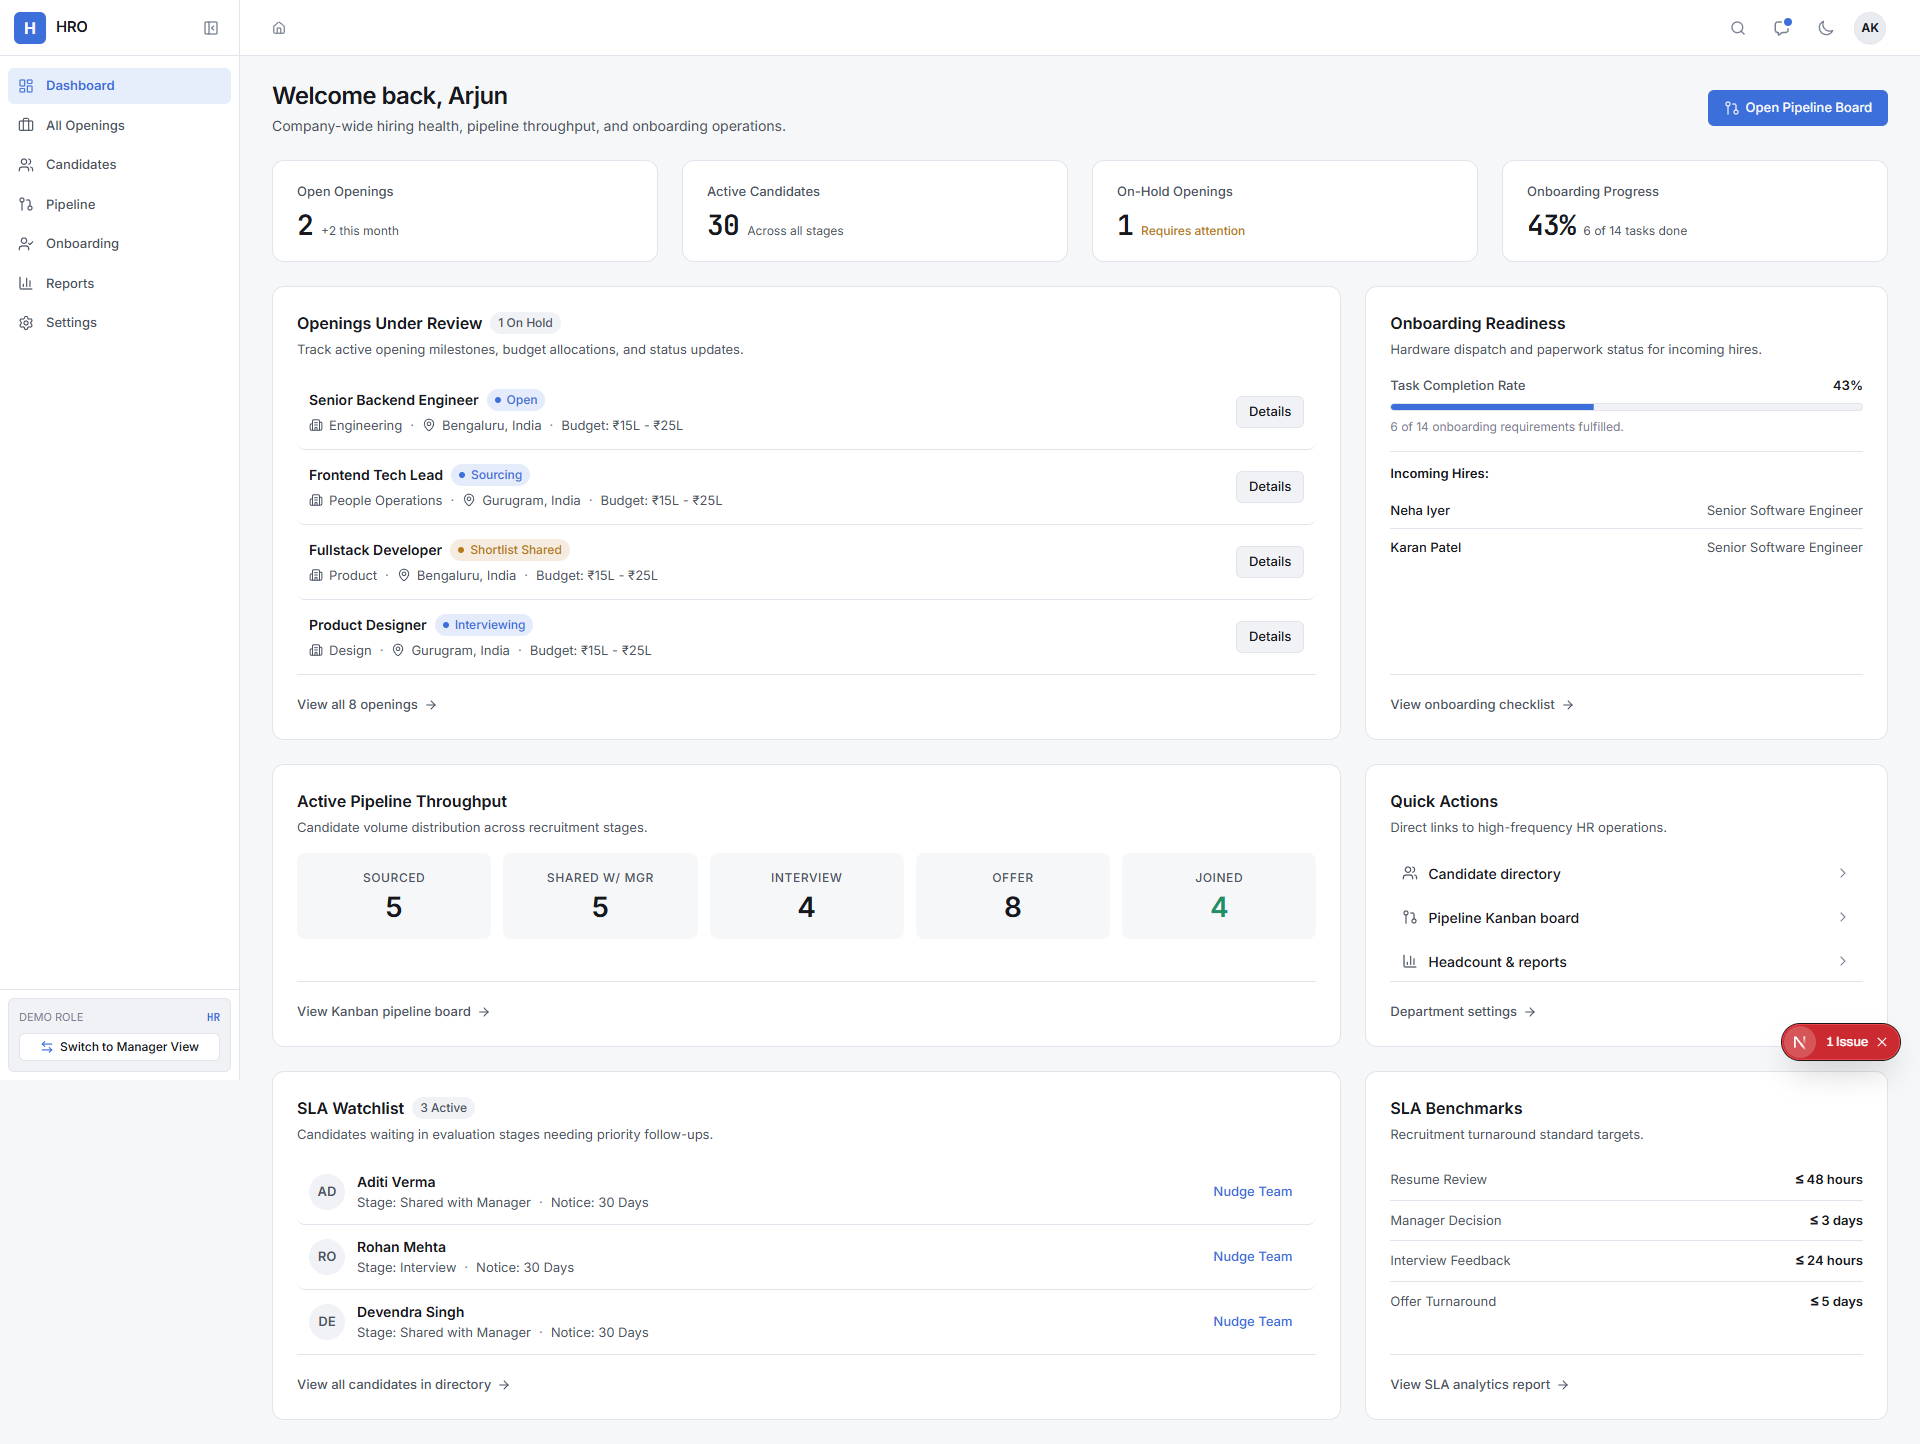
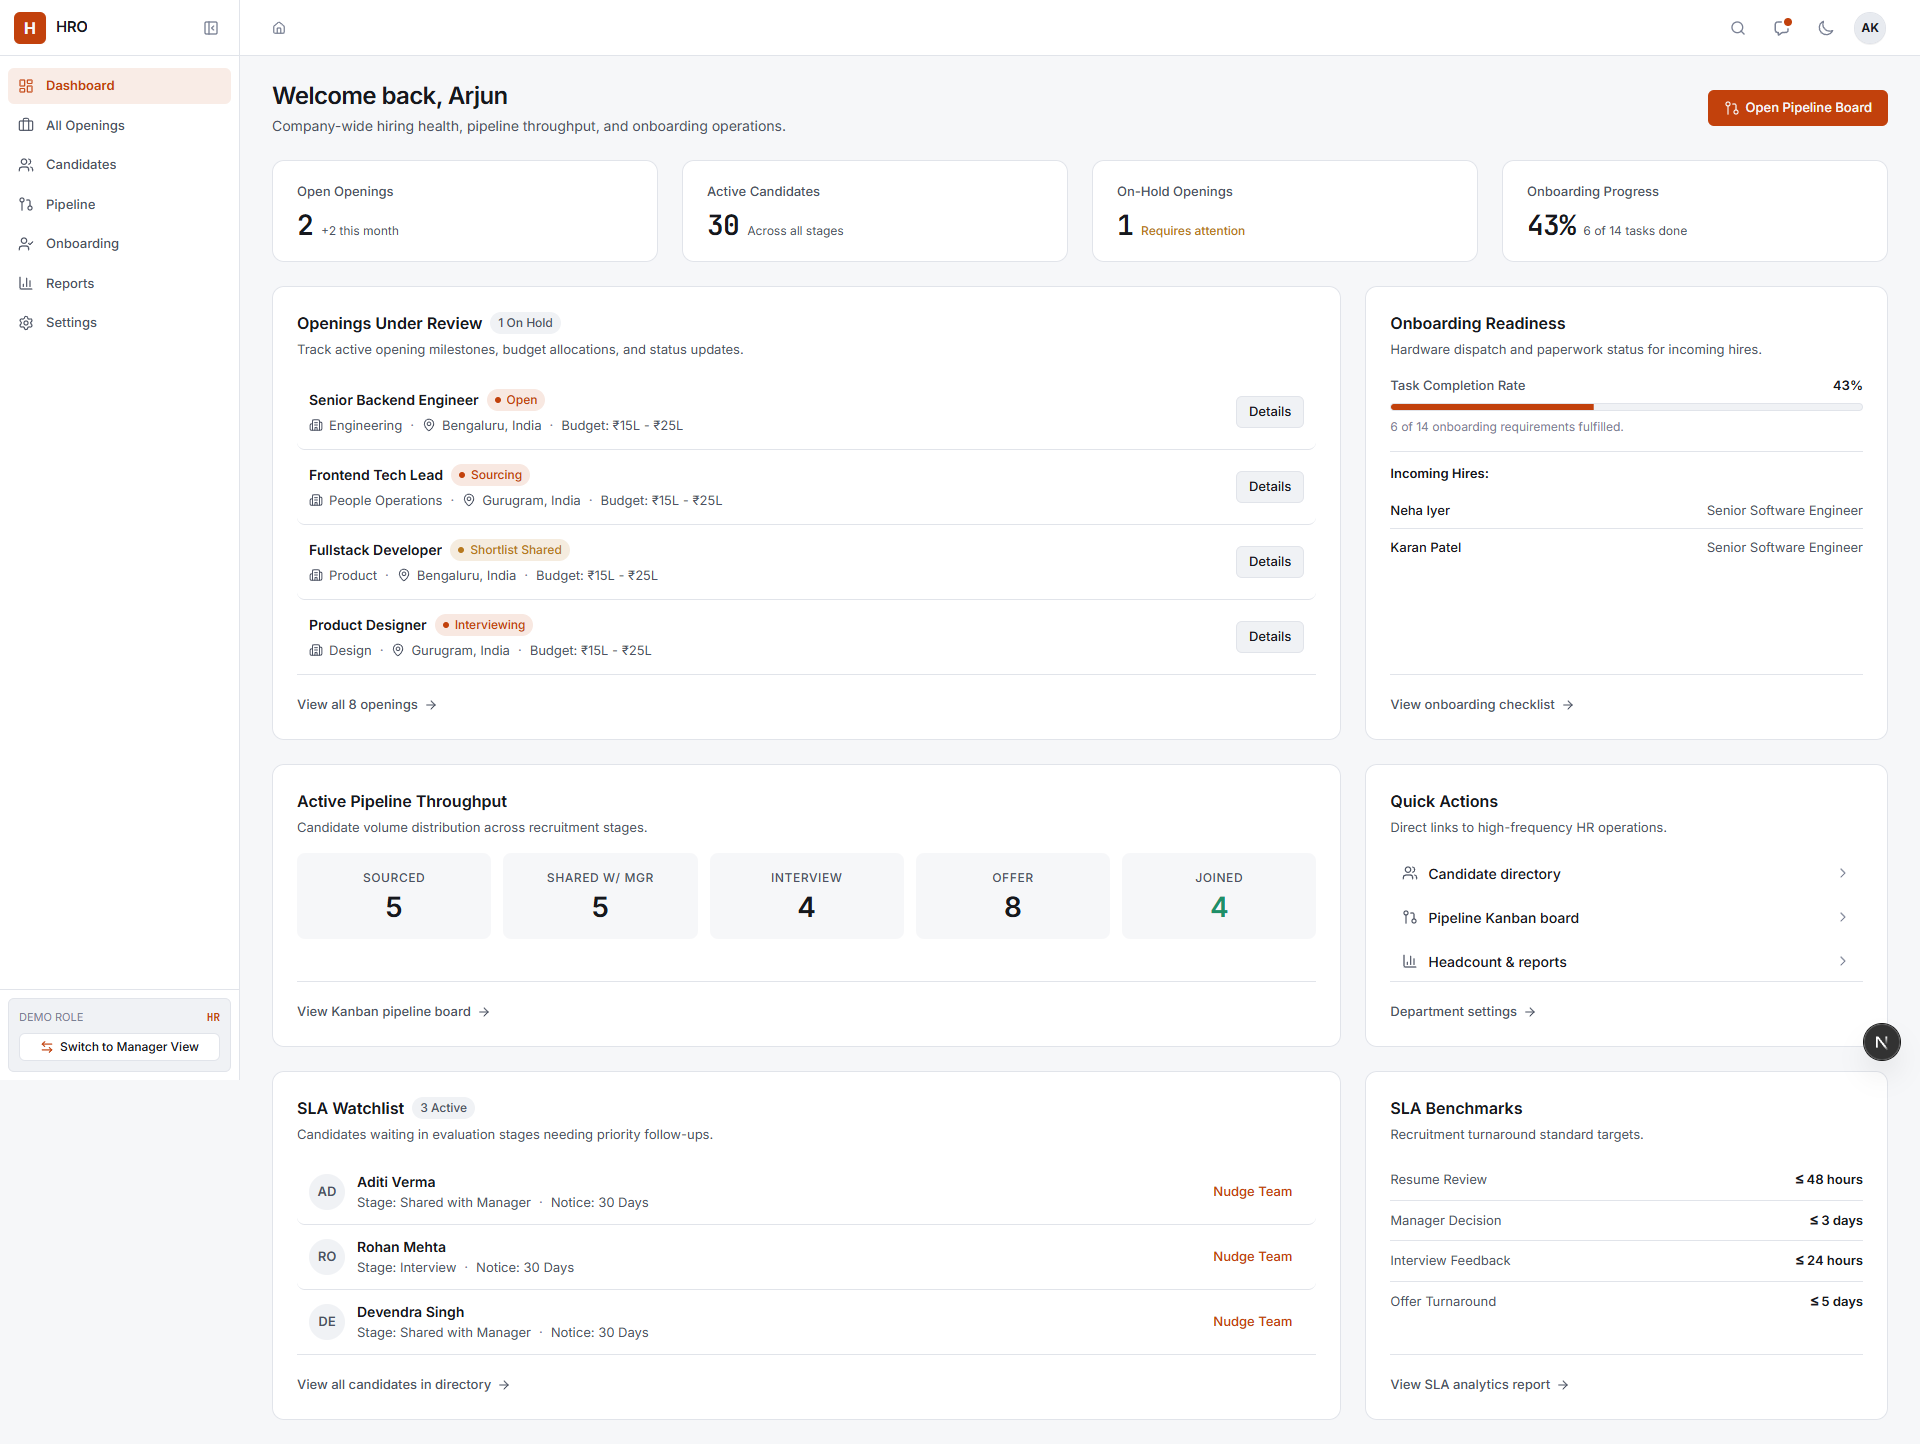
style(theme): switch primary brand accent and badges from blue to orange

diff --git a/styles/tokens.css b/styles/tokens.css
@@ -17,15 +17,15 @@
   --text: #e6e8ee;
   --text-muted: #a3a9b8;
   --text-subtle: #6f7686;
-  --accent: #5b8def;
-  --accent-subtle: #1c2740;
+  --accent: #f97316;
+  --accent-subtle: rgba(249, 115, 22, 0.14);
   --success: #3fb68b;
   --warning: #e0a93b;
   --danger: #e5584f;
-  --info: #5b8def;
+  --info: #f97316;
 
   /* Status Badges Tint Backgrounds (~14% opacity equivalents) */
-  --badge-info-bg: rgba(91, 141, 239, 0.14);
+  --badge-info-bg: rgba(249, 115, 22, 0.14);
   --badge-warning-bg: rgba(224, 169, 59, 0.14);
   --badge-success-bg: rgba(63, 182, 139, 0.14);
   --badge-danger-bg: rgba(229, 88, 79, 0.14);
@@ -54,15 +54,15 @@
   --text: #16181d;
   --text-muted: #4b5262;
   --text-subtle: #7a8194;
-  --accent: #3d6fdb;
-  --accent-subtle: #e6eefc;
+  --accent: #c2410c;
+  --accent-subtle: rgba(194, 65, 12, 0.10);
   --success: #1f8f68;
   --warning: #b7791f;
   --danger: #c93d35;
-  --info: #3d6fdb;
+  --info: #c2410c;
 
   /* Status Badges Tint Backgrounds (~14% opacity equivalents) */
-  --badge-info-bg: rgba(61, 111, 219, 0.14);
+  --badge-info-bg: rgba(194, 65, 12, 0.12);
   --badge-warning-bg: rgba(183, 121, 31, 0.14);
   --badge-success-bg: rgba(31, 143, 104, 0.14);
   --badge-danger-bg: rgba(201, 61, 53, 0.14);
